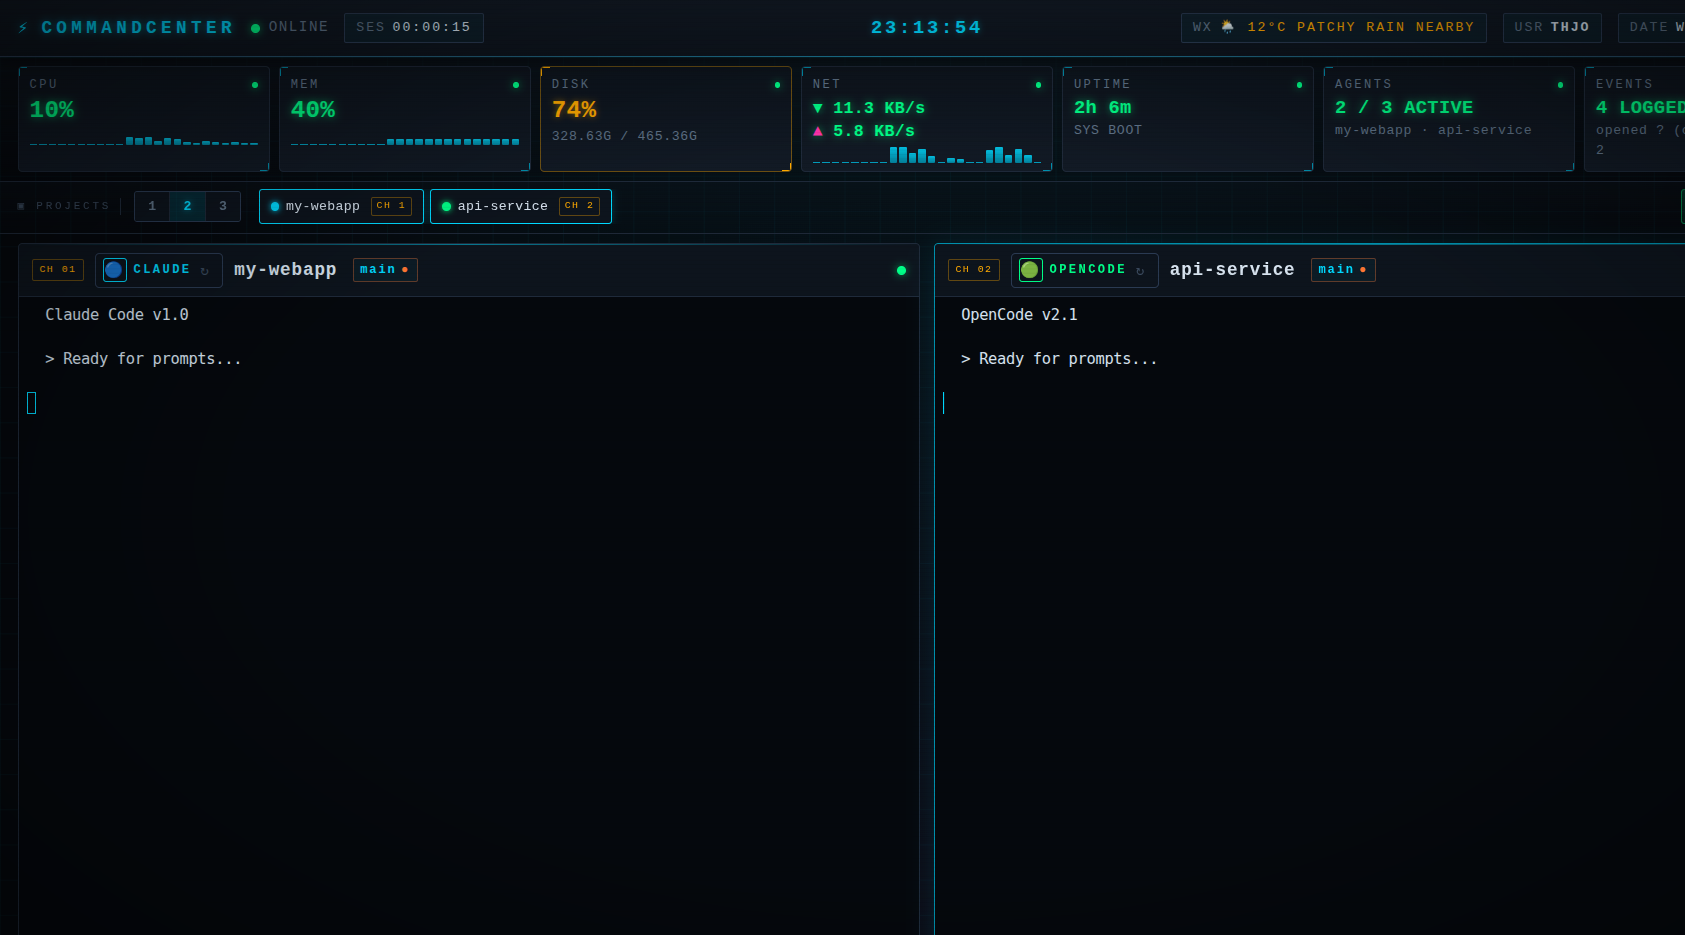
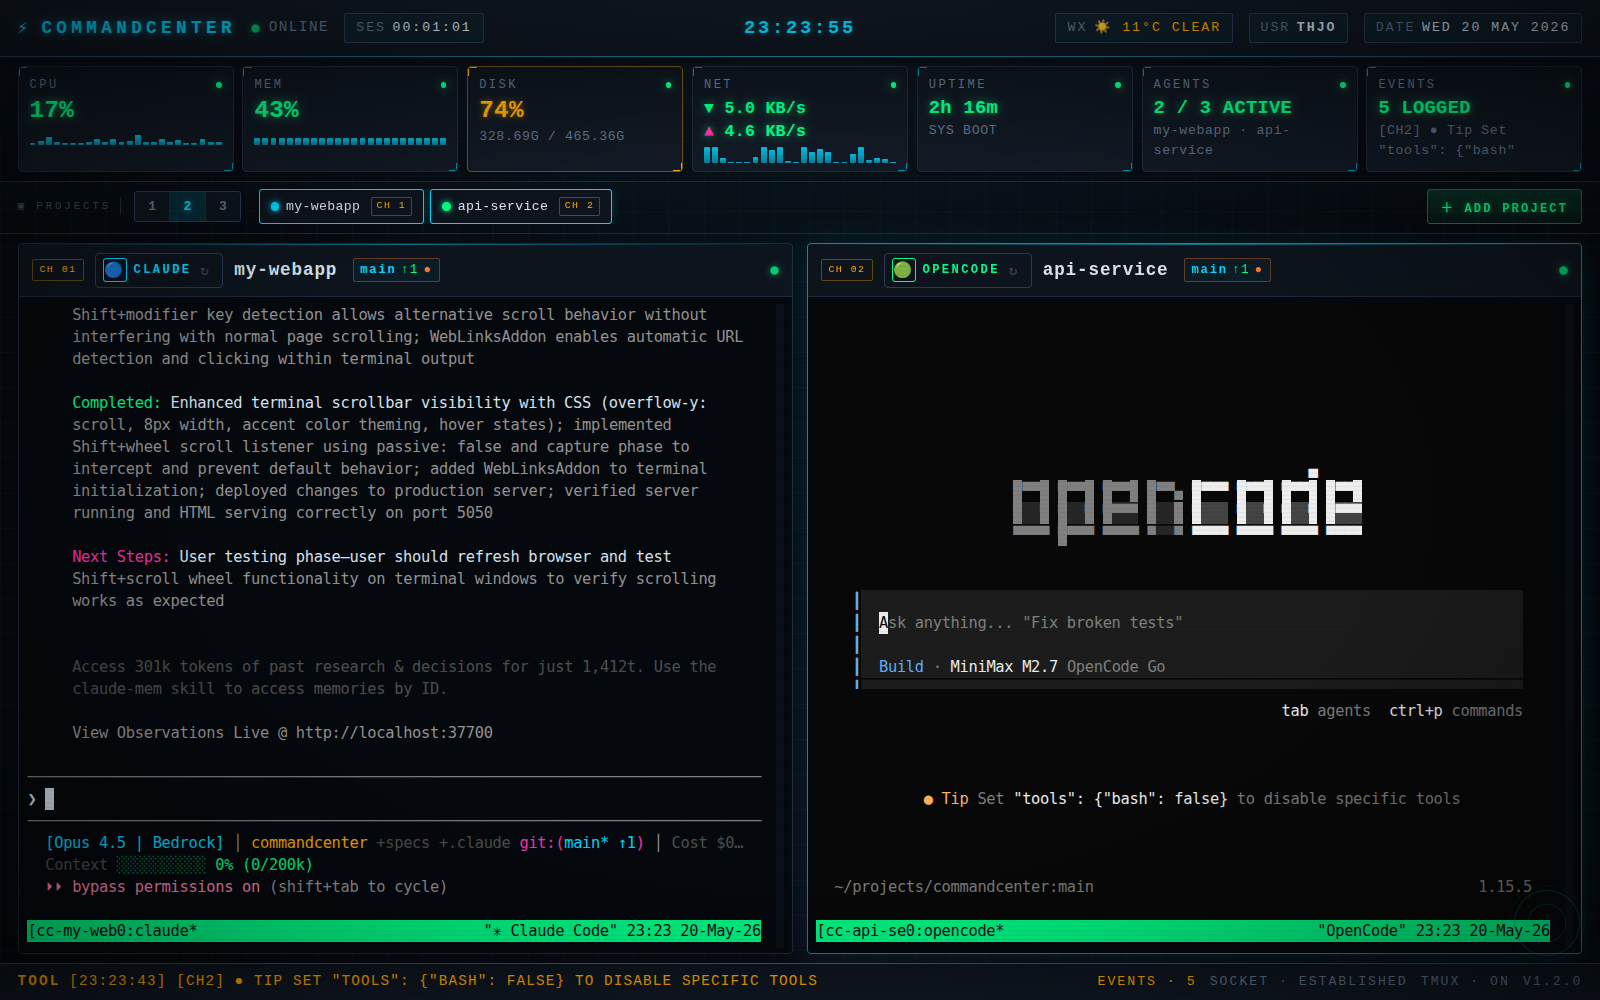
feat: add desktop shortcut installer and better screenshot
- Add install-desktop.sh for Linux desktop app installation
- Update screenshot with real running agents (Claude + OpenCode)
- Update README with desktop installation instructions

diff --git a/README.md b/README.md
@@ -40,6 +40,20 @@ python server.py
 # Open http://localhost:5050
 ```
 
+### Desktop App (Linux)
+
+Install as a desktop application with its own Chrome window:
+
+```bash
+./install-desktop.sh
+```
+
+This creates:
+- `~/.local/bin/commandcenter` — launcher script
+- `~/.local/share/applications/commandcenter.desktop` — app menu entry
+
+Then run `commandcenter` or find "CommandCenter" in your app launcher.
+
 ## Requirements
 
 - Python 3.10+